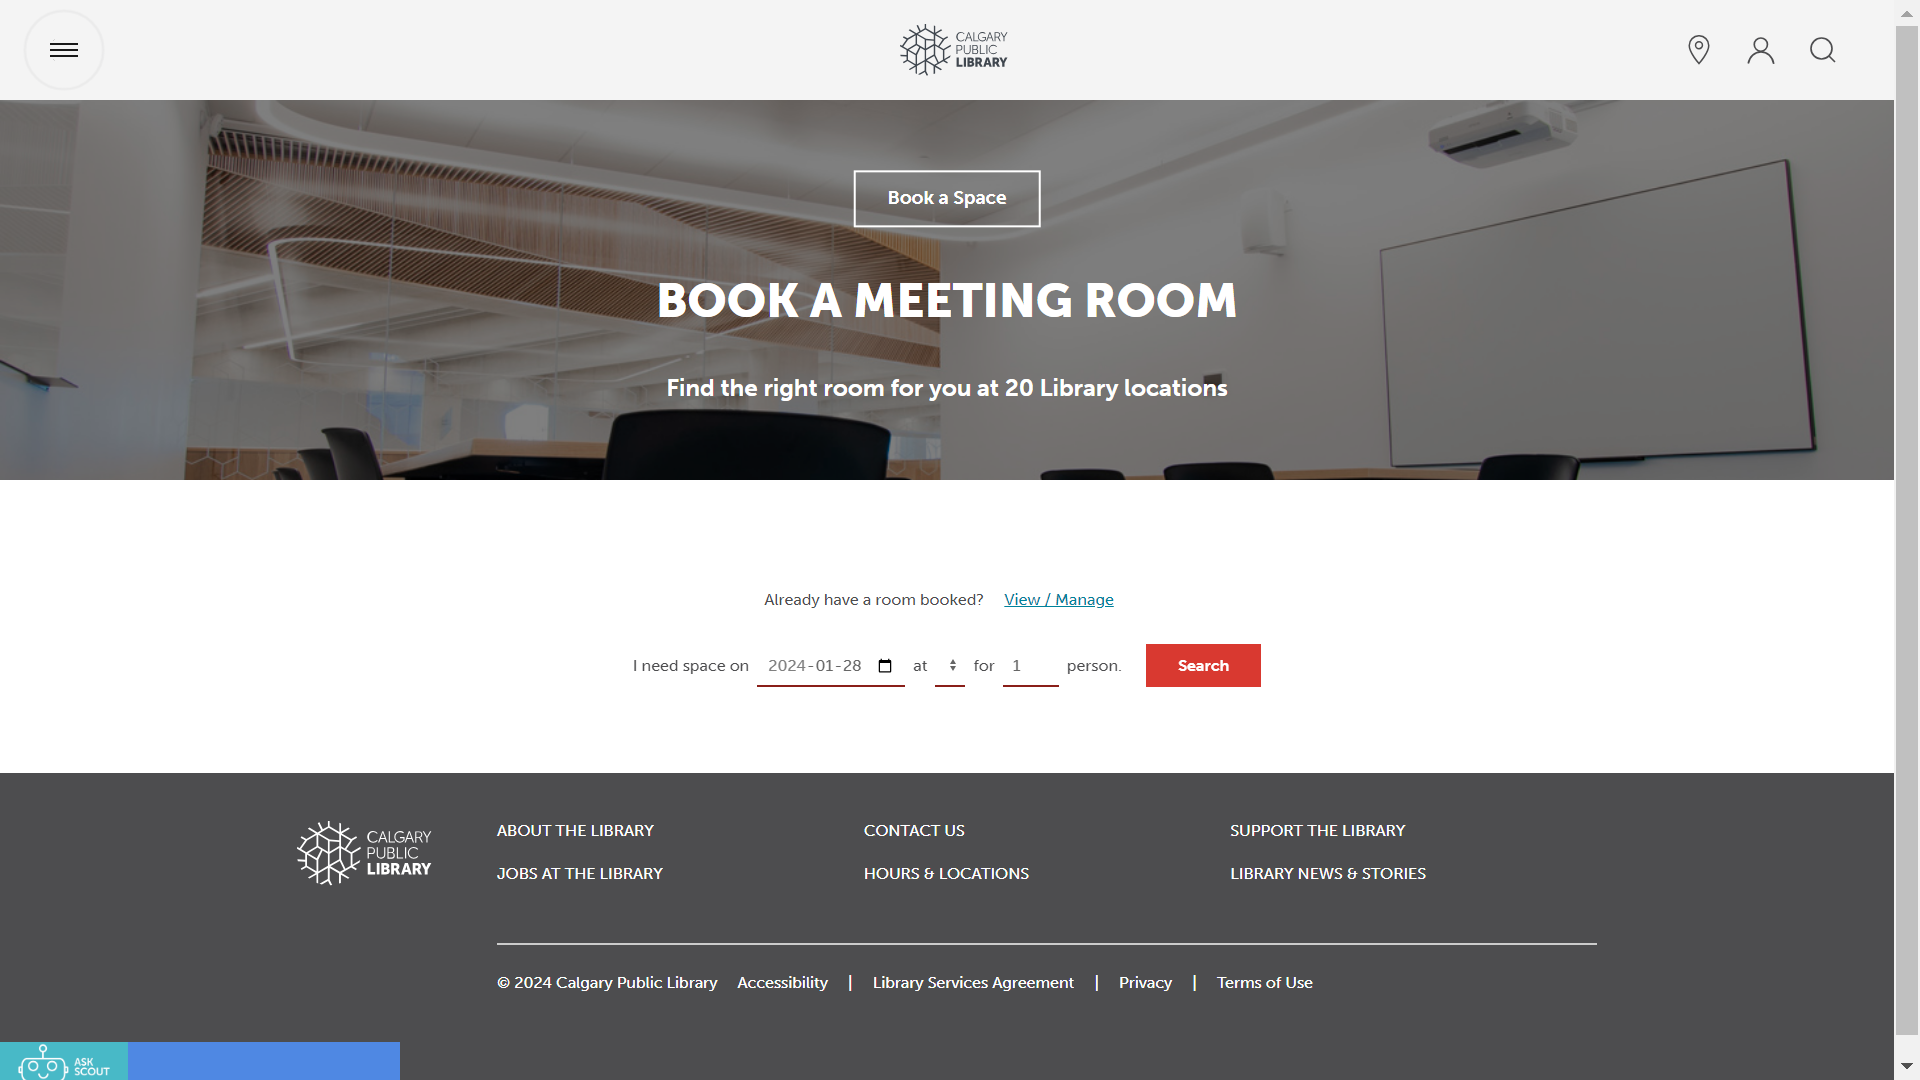
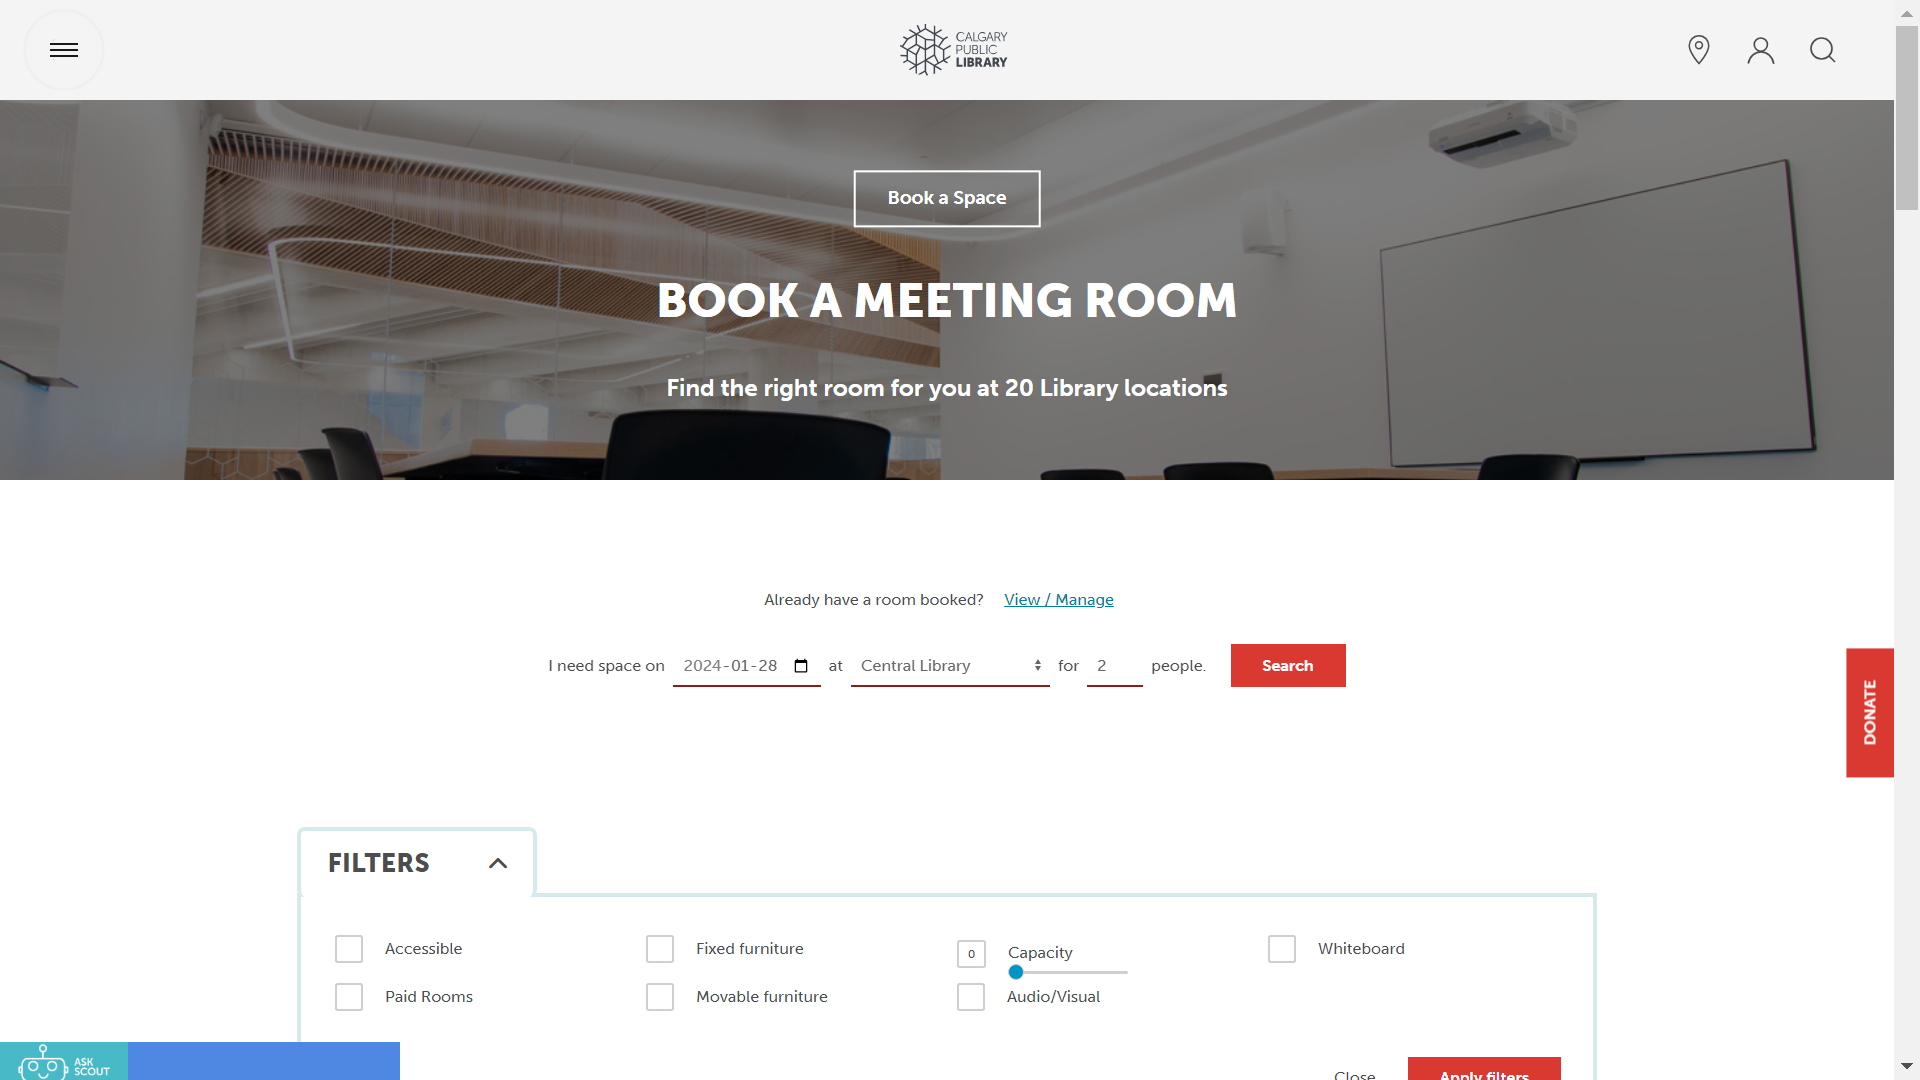
Found room elements

Changed region(s): [[0.0, 0.1833, 1.0, 1.0], [0.5625, 0.5806, 0.7188, 0.6417], [0.2812, 0.6111, 0.5312, 0.6417]]

diff --git a/app/src/main.rs b/app/src/main.rs
@@ -1,9 +1,98 @@
+use chrono::{DateTime, NaiveDate};
 use fantoccini::{elements::Element, wd::Capabilities, ClientBuilder, Locator};
+use thiserror::Error;
 
-// async fn available_rooms(
-//     c: &fantoccini::Client,
-//     date:
-// )
+const WINDOW_WIDTH: u32 = 1920;
+const WINDOW_HEIGHT: u32 = 1080;
+
+trait TakeNextScreenshot {
+    async fn take_next_screenshot(&self, screenshot_counter: &mut usize);
+}
+
+impl TakeNextScreenshot for Element {
+    async fn take_next_screenshot(&self, screenshot_counter: &mut usize) {
+        let screenshot_png = self.screenshot().await.unwrap();
+        std::fs::write(format!("{screenshot_counter}.png"), screenshot_png).unwrap();
+        *screenshot_counter += 1;
+    }
+}
+
+impl TakeNextScreenshot for fantoccini::Client {
+    async fn take_next_screenshot(&self, screenshot_counter: &mut usize) {
+        let screenshot_png = self.screenshot().await.unwrap();
+        std::fs::write(format!("{screenshot_counter}.png"), screenshot_png).unwrap();
+        *screenshot_counter += 1;
+    }
+}
+
+#[derive(Error, Debug)]
+enum FindSearchButtonError {
+    #[error("No search button found")]
+    NoButtonFound,
+    #[error("More than one search button found")]
+    MoreThanOneButtonFound,
+    #[error("Fantoccini error: {0}")]
+    FantocciniError(#[from] fantoccini::error::CmdError),
+}
+
+struct RoomInfo {
+    name: String,
+    description: String,
+    inferred_capacity: Option<u8>,
+}
+
+enum Room {
+    // 2-05A Meeting Room
+    R205AMeetingRoom,
+    UnknownRoom(RoomInfo),
+}
+
+async fn find_search_button(c: &fantoccini::Client) -> Result<Element, FindSearchButtonError> {
+    let buttons = c
+        .find_all(Locator::Css("button.btn-submission.red[value='Search']"))
+        .await?;
+    let mut button: Option<Element> = None;
+    for b in buttons {
+        if b.is_displayed().await? {
+            button = match button {
+                None => Some(b),
+                Some(_) => return Err(FindSearchButtonError::MoreThanOneButtonFound),
+            };
+            break;
+        }
+    }
+    button.ok_or(FindSearchButtonError::NoButtonFound)
+}
+
+async fn available_rooms(
+    c: &fantoccini::Client,
+    date: NaiveDate,
+    group_size: u8,
+) -> Result<Vec<Room>, fantoccini::error::CmdError> {
+    let rooms = Vec::new();
+    let booking_url = format!(
+        "https://calgarylibrary.ca/events-and-programs/book-a-space/book-a-room/?date={}&location=1&groupsize={}",
+        date.format("%Y-%m-%d"),
+        group_size
+    );
+    c.goto(&booking_url).await?;
+
+    // screenshot counter
+    let mut sc: usize = 0;
+    let sc = &mut sc;
+
+    c.take_next_screenshot(sc).await;
+
+    let search_button = find_search_button(c).await.unwrap();
+    search_button.take_next_screenshot(sc).await;
+
+    let rooms_lis = c.find_all(Locator::Css(".room-booking-card")).await?;
+    for room in rooms_lis {
+        room.take_next_screenshot(sc).await;
+    }
+
+    Ok(rooms)
+}
 
 // let's set up the sequence of steps we want the browser to take
 #[tokio::main]
@@ -19,42 +108,11 @@ async fn main() -> Result<(), fantoccini::error::CmdError> {
         .await
         .expect("failed to connect to WebDriver");
 
-    c.set_window_rect(0, 0, 1920, 1080).await?;
+    c.set_window_rect(0, 0, WINDOW_WIDTH, WINDOW_HEIGHT).await?;
 
-    c.goto("https://calgarylibrary.ca/events-and-programs/book-a-space/book-a-room/")
-        .await?;
-    let url = c.current_url().await?;
-    assert_eq!(
-        url.as_ref(),
-        "https://calgarylibrary.ca/events-and-programs/book-a-space/book-a-room/"
-    );
-
-    let screenshot_png = c.screenshot().await.unwrap();
-    std::fs::write("0.png", screenshot_png).unwrap();
-
-    // There are more than one button that matches the selector
-    let buttons = c
-        .find_all(Locator::Css("button.btn-submission.red[value='Search']"))
-        .await?;
-    let mut button: Option<Element> = None;
-    for b in buttons {
-        if b.is_displayed().await? {
-            button = match button {
-                None => Some(b),
-                Some(_) => panic!("More than one button found"),
-            };
-            break;
-        }
-    }
-    let button = button.unwrap();
-    let screenshot_png = button.screenshot().await.unwrap();
-    std::fs::write("1.png", screenshot_png).unwrap();
-
-    // // click "Foo Lake"
-    // c.find(Locator::LinkText("Foo Lake")).await?.click().await?;
-
-    // let url = c.current_url().await?;
-    // assert_eq!(url.as_ref(), "https://en.wikipedia.org/wiki/Foo_Lake");
+    let now = chrono::Local::now();
+    let today = now.date_naive();
+    let available_rooms = available_rooms(&c, today, 2).await?;
 
     c.close().await
 }
